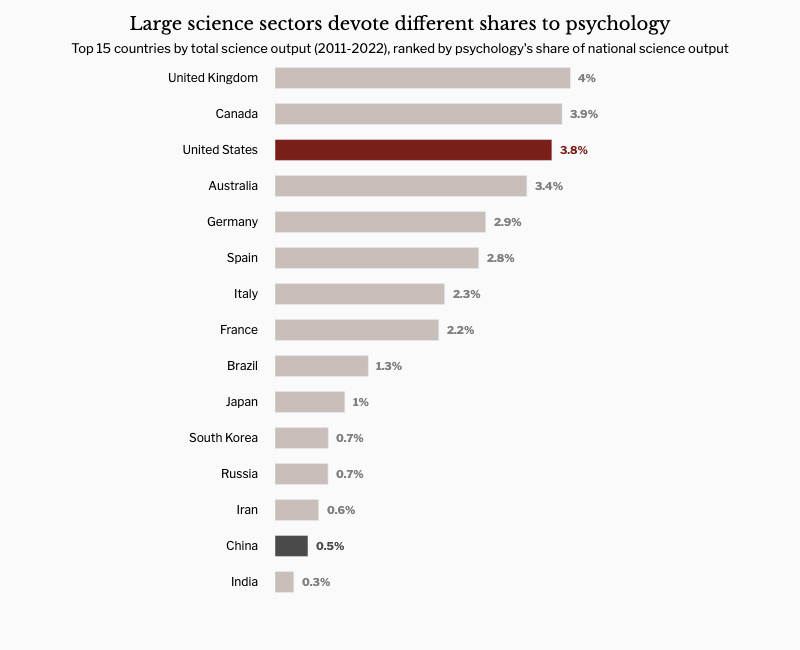
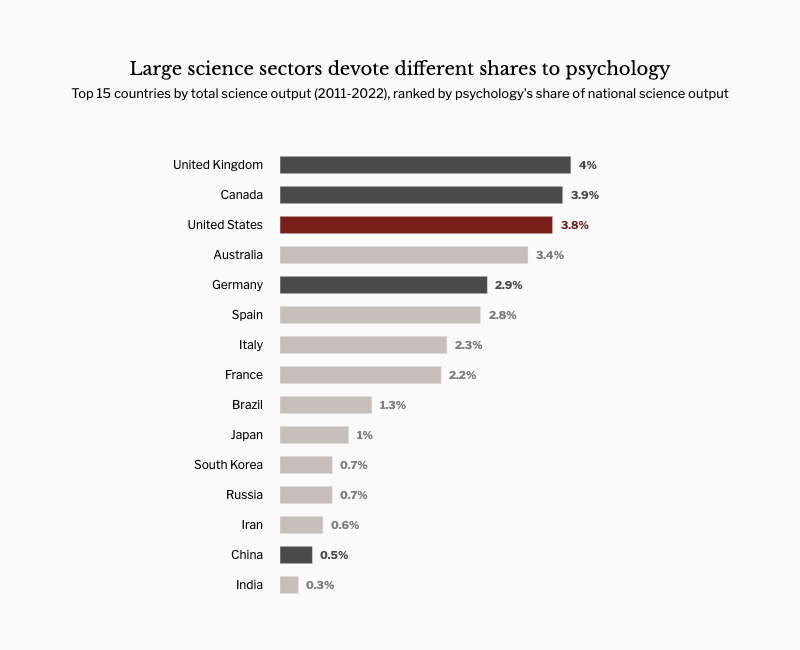
fix rank plot r/l margins on narrow screen

Changed region(s): [[0.0938, 0.0, 0.9062, 0.9231]]

diff --git a/docs/style.css b/docs/style.css
@@ -45,7 +45,8 @@
   /* chart series colours need to match trace colours in chart-data.js,
      from notebooks/01_data_analysis.ipynb. */
   --series-rose: #236534;   /* rank-shift: rose >3 ranks, China */
-  --series-flat: #C9BFBA;   /* rank-shift: shift of 3 or fewer */
+  --series-flat: #C9BFBA;   /* rank-shift: shift of 3 or fewer; rank bars: outside top 5 */
+  --series-top5: #4A4A4A;   /* rank bars: psychology producers #2-5 */
   --series-uk:   #8C9BA5;
   --series-ca:   #B5A08C;
   --series-de:   #6B5744;
@@ -160,9 +161,10 @@ em { font-style: italic; }
   margin-right: 5px; vertical-align: middle;
 }
 /* one swatch colour per series; --fell and --us share accent red, but charts name their own for readability  */
-.dot--fell, .dot--us { background: var(--accent); }
+.dot--fell, .dot--us, .dot--lead { background: var(--accent); }
 .dot--rose, .dot--cn { background: var(--series-rose); }
-.dot--flat { background: var(--series-flat); }
+.dot--flat, .dot--rest { background: var(--series-flat); }
+.dot--top5 { background: var(--series-top5); }
 .dot--uk   { background: var(--series-uk); }
 .dot--ca   { background: var(--series-ca); }
 .dot--de   { background: var(--series-de); }
@@ -189,6 +191,11 @@ em { font-style: italic; }
 
 /* trend: smaller chart than title */
 .figure-embed--trend .chart-scroll { max-width: 850px; margin: 0 auto; }
+
+/* rank: box spans exactly the text column, same as .figure-caption below.
+   Centring inside the box is done with pixel margins in the Plotly spec (l/r),
+   so the label + bar + value block stays centred at every width. */
+.figure-embed--rankshift .chart-scroll { max-width: var(--text-max); margin: 0 auto; }
 
 /* aligned with the main text column rather than centered under the (wider) figure:
    .figure has the same 20px side padding as .page, so --text-max box
@@ -221,7 +228,9 @@ footer a { color: var(--accent); }
 /* beyond 1200px, give the text column more room from the edges */
 @media (min-width: 1200px) {
   .page { padding-left: 60px; padding-right: 60px; }
-  .figure-caption { max-width: 880px; } /* 1000 - 2*60, matching .page above */
+  /* 1000 - 2*60, matching .page above */
+  .figure-caption { max-width: 880px; }
+  .figure-embed--rankshift .chart-scroll { max-width: 880px; }
 }
 
 @media (max-width: 480px) {

diff --git a/docs/chart-data.js b/docs/chart-data.js
@@ -126,7 +126,7 @@ window.CHART_SPECS = [
   "annotations": [
     {
       "font": {
-        "color": "#4A4A4A",
+        "color": "gray",
         "family": "Libre Franklin",
         "size": 11
       },
@@ -152,7 +152,7 @@ window.CHART_SPECS = [
     },
     {
       "font": {
-        "color": "#4A4A4A",
+        "color": "gray",
         "family": "Libre Franklin",
         "size": 11
       },
@@ -165,7 +165,7 @@ window.CHART_SPECS = [
     },
     {
       "font": {
-        "color": "#4A4A4A",
+        "color": "gray",
         "family": "Libre Franklin",
         "size": 11
       },
@@ -256,7 +256,7 @@ window.CHART_SPECS = [
     },
     {
       "font": {
-        "color": "gray",
+        "color": "#4A4A4A",
         "family": "Libre Franklin",
         "size": 11
       },
@@ -295,7 +295,7 @@ window.CHART_SPECS = [
     },
     {
       "font": {
-        "color": "gray",
+        "color": "#4A4A4A",
         "family": "Libre Franklin",
         "size": 11
       },
@@ -308,7 +308,7 @@ window.CHART_SPECS = [
     },
     {
       "font": {
-        "color": "gray",
+        "color": "#4A4A4A",
         "family": "Libre Franklin",
         "size": 11
       },
@@ -326,11 +326,11 @@ window.CHART_SPECS = [
     "zeroline": false,
     "range": [
       0,
-      4.0622
+      4.446378851064064
     ],
     "domain": [
-      0,
-      1
+      0.26,
+      0.9
     ]
   },
   "yaxis": {
@@ -358,10 +358,10 @@ window.CHART_SPECS = [
     "bordercolor": "rgba(0, 0, 0, 0.1)"
   },
   "margin": {
-    "t": 20,
+    "t": 48,
     "b": 50,
-    "l": 125,
-    "r": 51
+    "l": 20,
+    "r": 20
   },
   "autosize": true,
   "paper_bgcolor": "#FAFAFA",

diff --git a/docs/index.html b/docs/index.html
@@ -61,6 +61,7 @@
 <div class="chart-wrap">
 <h2 class="chart-title">A large science sector doesn't necessarily devote a larger share to psychology</h2>
 <p class="chart-subtitle">Top 15 countries by total science publications (2011-2022), ranked by psychology's share of national output</p>
+<div class="chart-legend"><span><span class="dot dot--lead"></span>Largest psychology producer</span><span><span class="dot dot--top5"></span>Next four largest producers</span></div>
 <div class="chart-scroll"><div class="chart-inner"><div id="c2" class="plotly-graph-div"></div></div></div>
 </div>
   </div>
